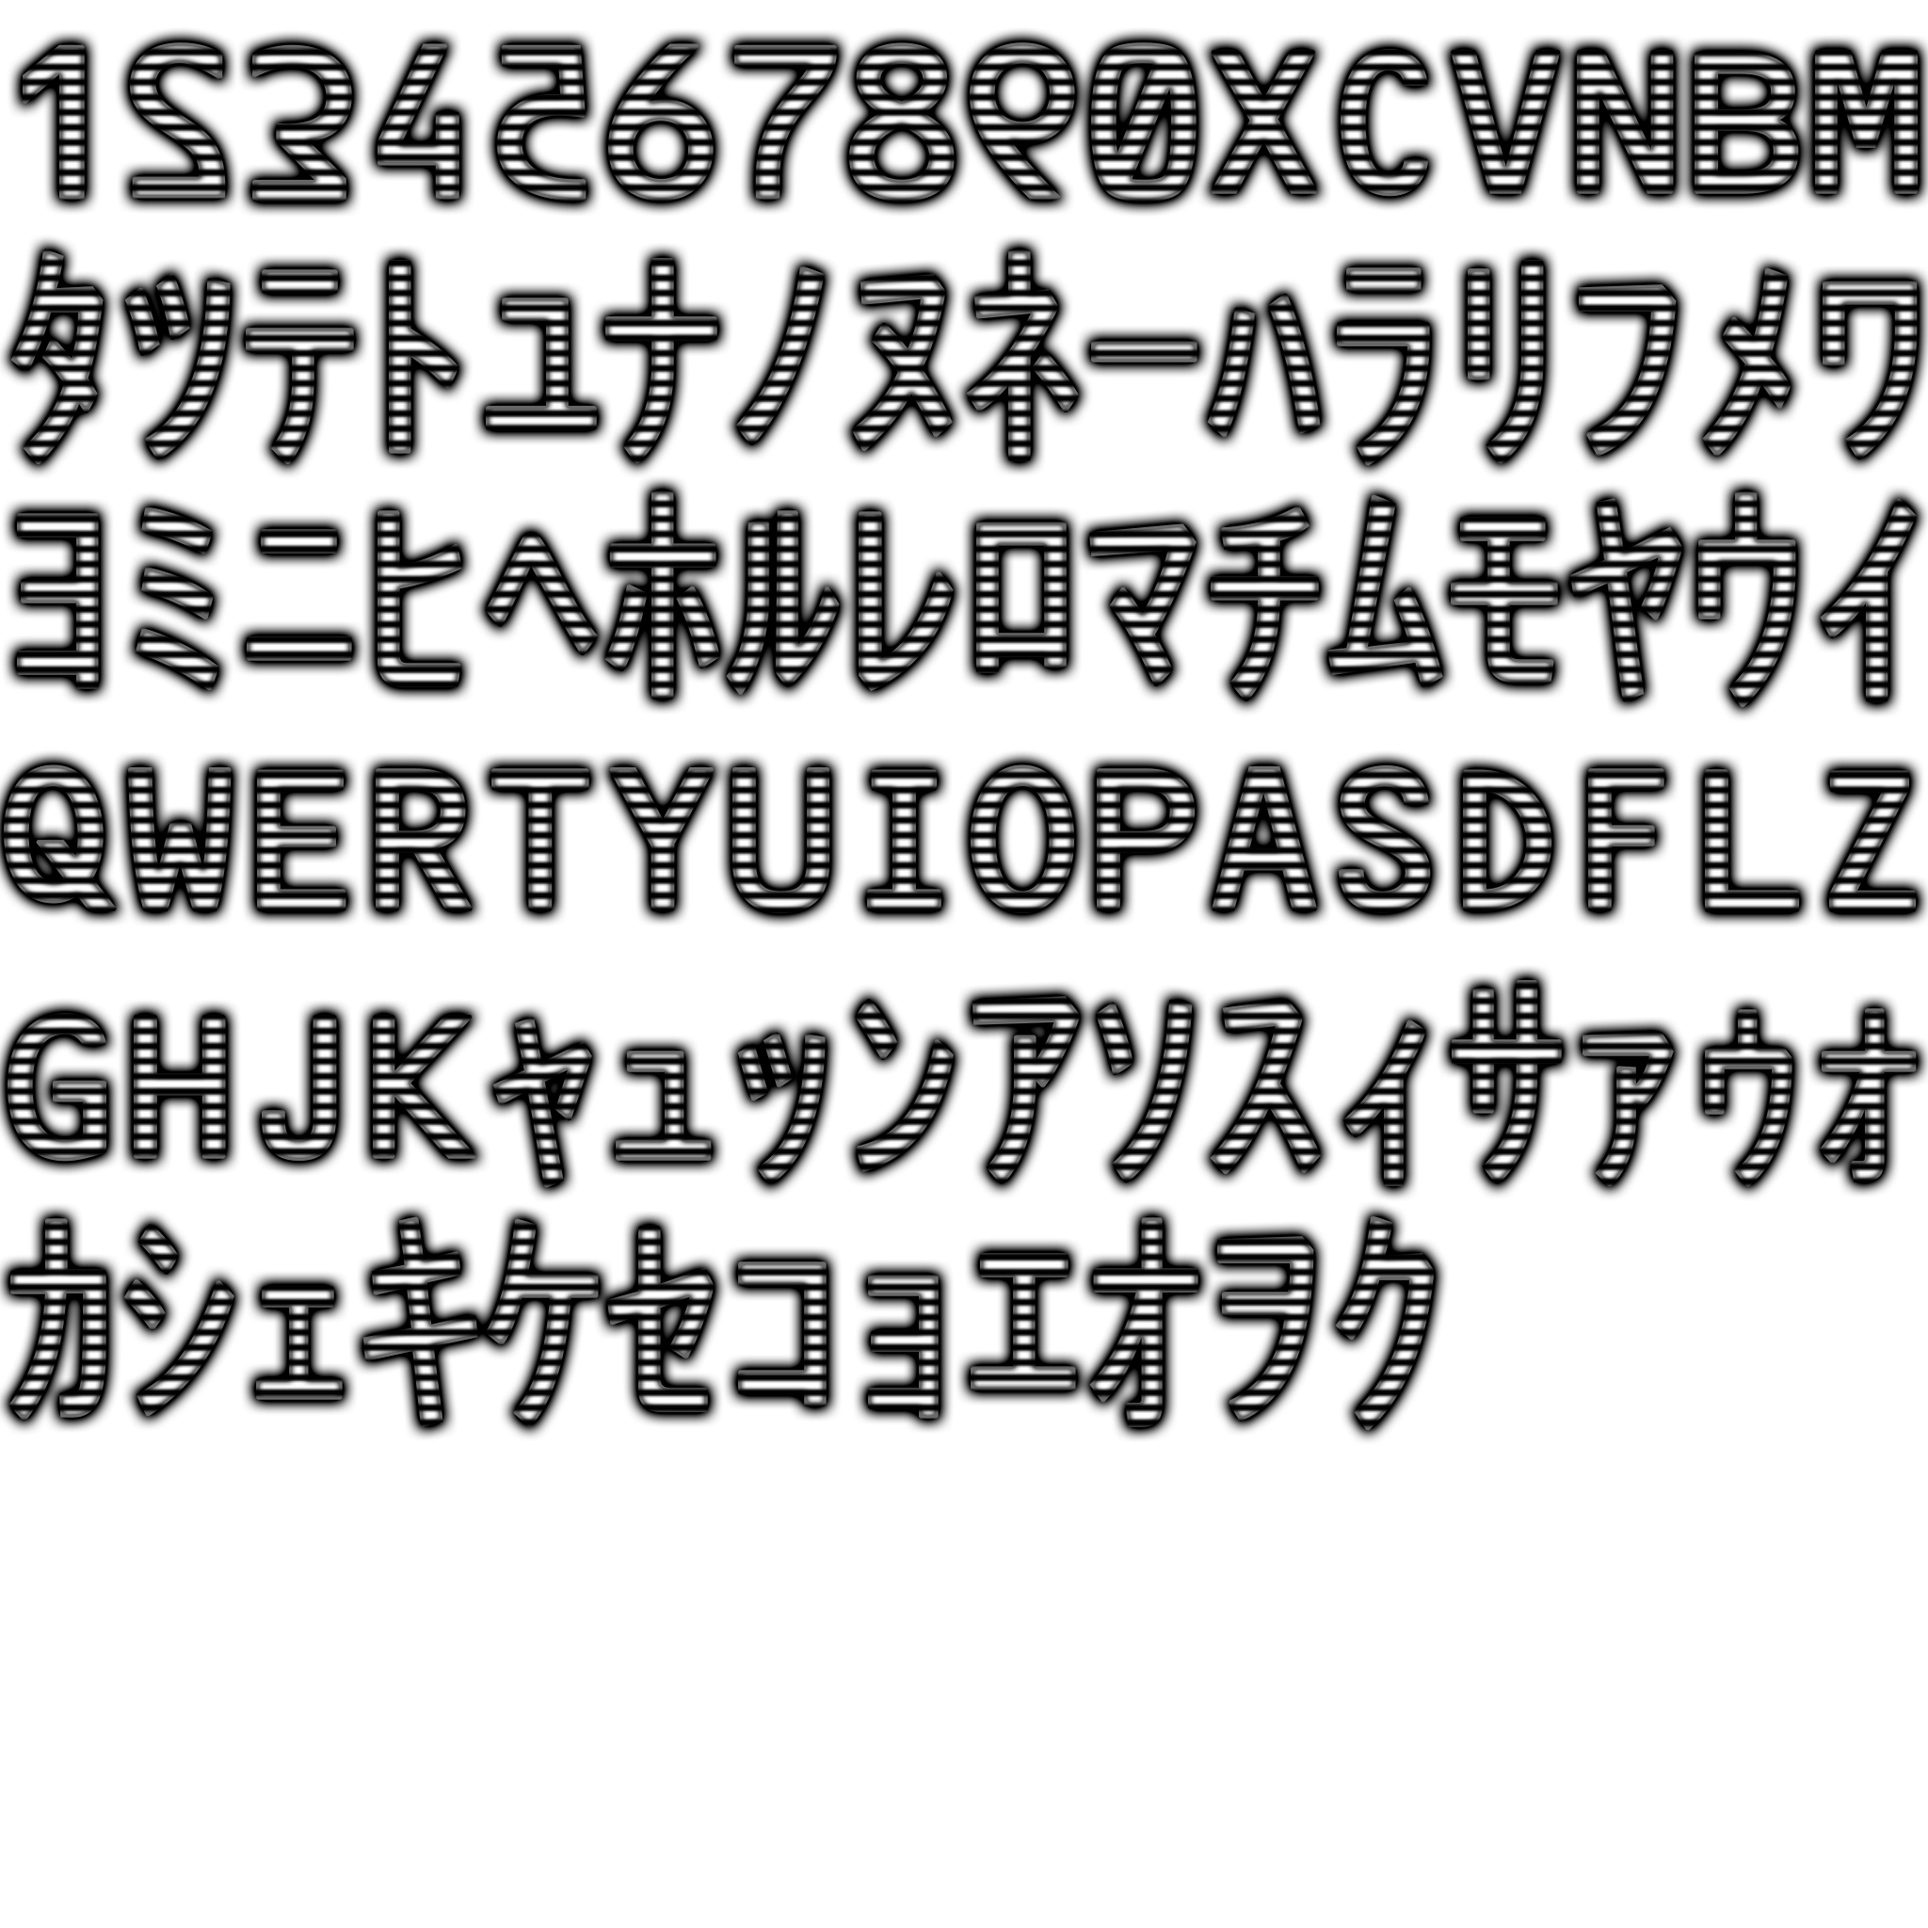
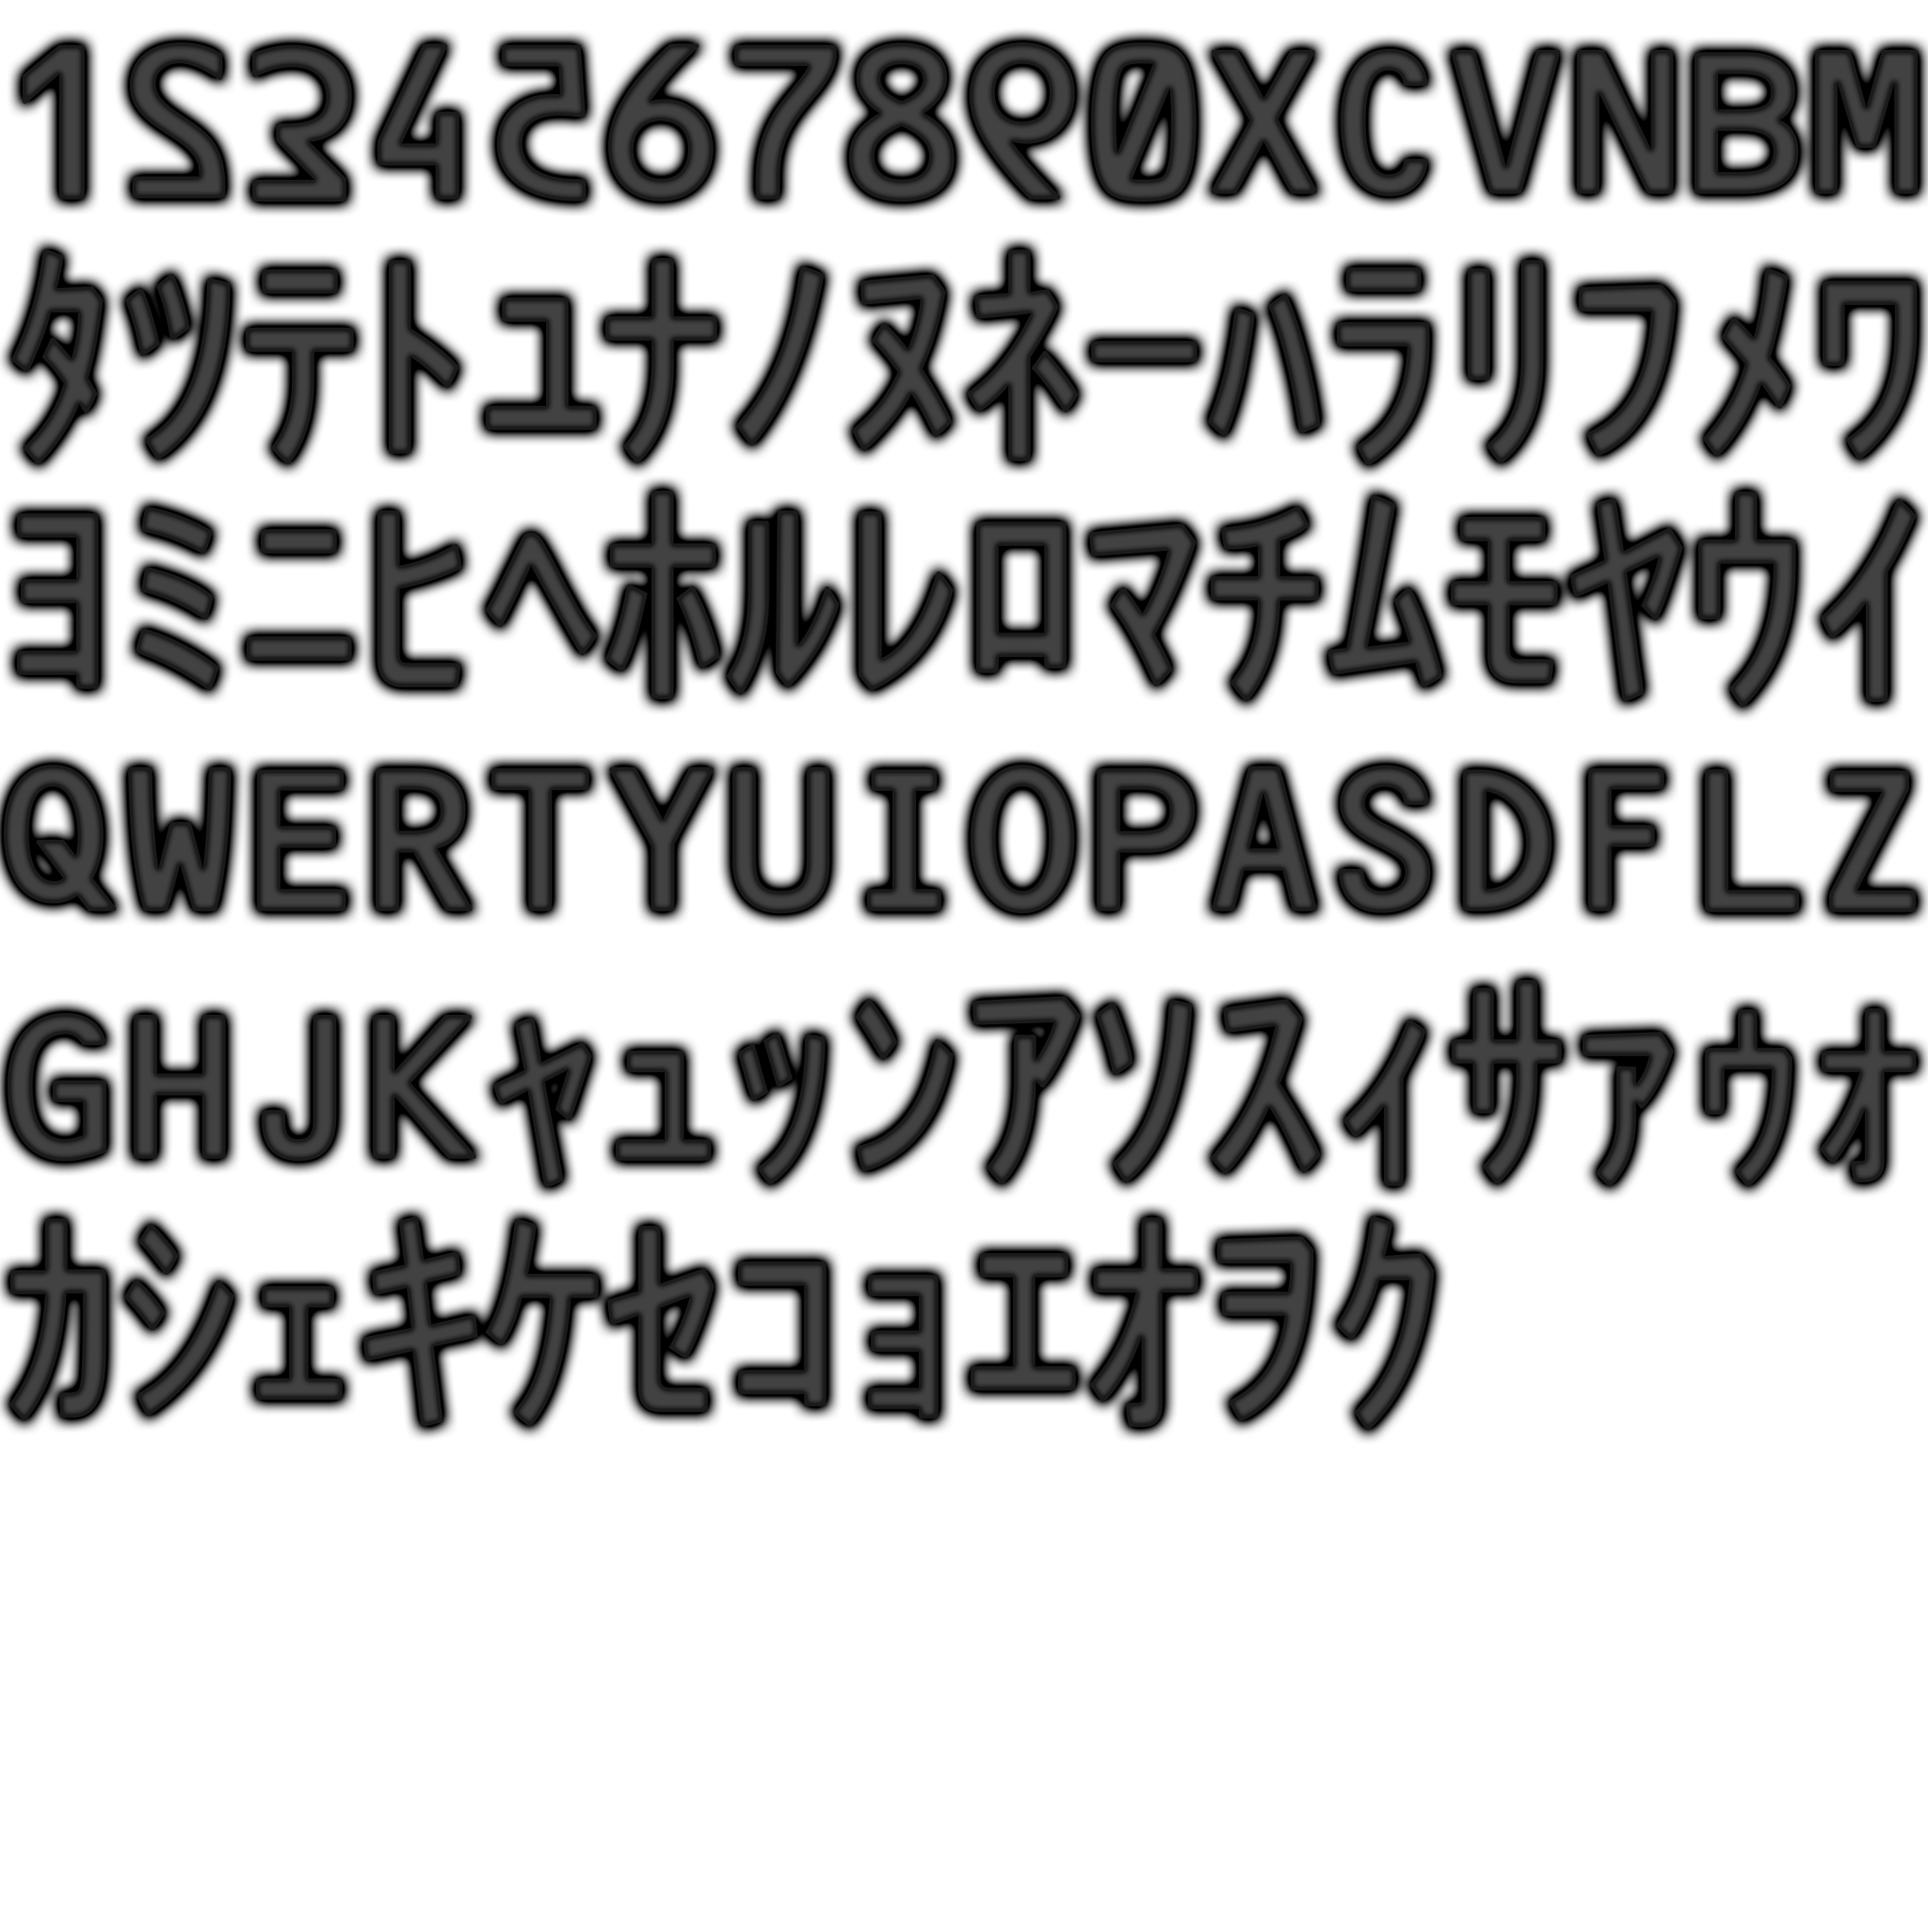
Misc

diff --git a/MatrixScreen/MatrixEngine/Glyph.cs b/MatrixScreen/MatrixEngine/Glyph.cs
@@ -49,12 +49,15 @@ namespace MatrixScreen
                 _index = value;
                 var x = value % GLYPH_TEXTURE_COLUMNS;
                 var y = (value - x) / GLYPH_TEXTURE_COLUMNS;
-                _sprite.TextureRect = new IntRect(
+                var textureRect = new IntRect(
                     x * GLYPH_WIDTH,
                     y * GLYPH_HEIGHT,
                     GLYPH_WIDTH,
                     GLYPH_HEIGHT
                 );
+
+                _sprite.TextureRect = textureRect;
+                _spriteOutline.TextureRect = textureRect;
             }
         }
 
@@ -98,9 +101,9 @@ namespace MatrixScreen
             //        _sprite.Position.Y, _sprite.TextureRect.Width*_sprite.Scale.X,
             //        _sprite.TextureRect.Height*_sprite.Scale.Y, 0, 0);
             //}
-
-            _spriteOutline.Draw(target, new RenderStates(BlendMode.Alpha));
+            
             _sprite.Draw(target, new RenderStates(BlendMode.Add));
+            _spriteOutline.Draw(target, new RenderStates(BlendMode.Alpha));
         }
 
         public void Update(ChronoEventArgs chronoArgs, IntRect visibleRegion)
@@ -112,7 +115,8 @@ namespace MatrixScreen
             
             if(GetRandom.Float(1f) < _config.ChanceOfHeavyFlicker) _isFlickering = !_isFlickering;
 
-            _sprite.Color = new Color(0, 255, 0, CalculateOpacity());
+            _spriteOutline.Color = new Color(0, 0, 0, (byte)(CalculateOpacity() * 0.6f));
+            _sprite.Color = new Color(0, 255, 0, CalculateOpacity());            
 
             if (_twitch.IsTriggered(chronoArgs)) {
                 Index = GetRandom.Int(MAX_INDEX);
